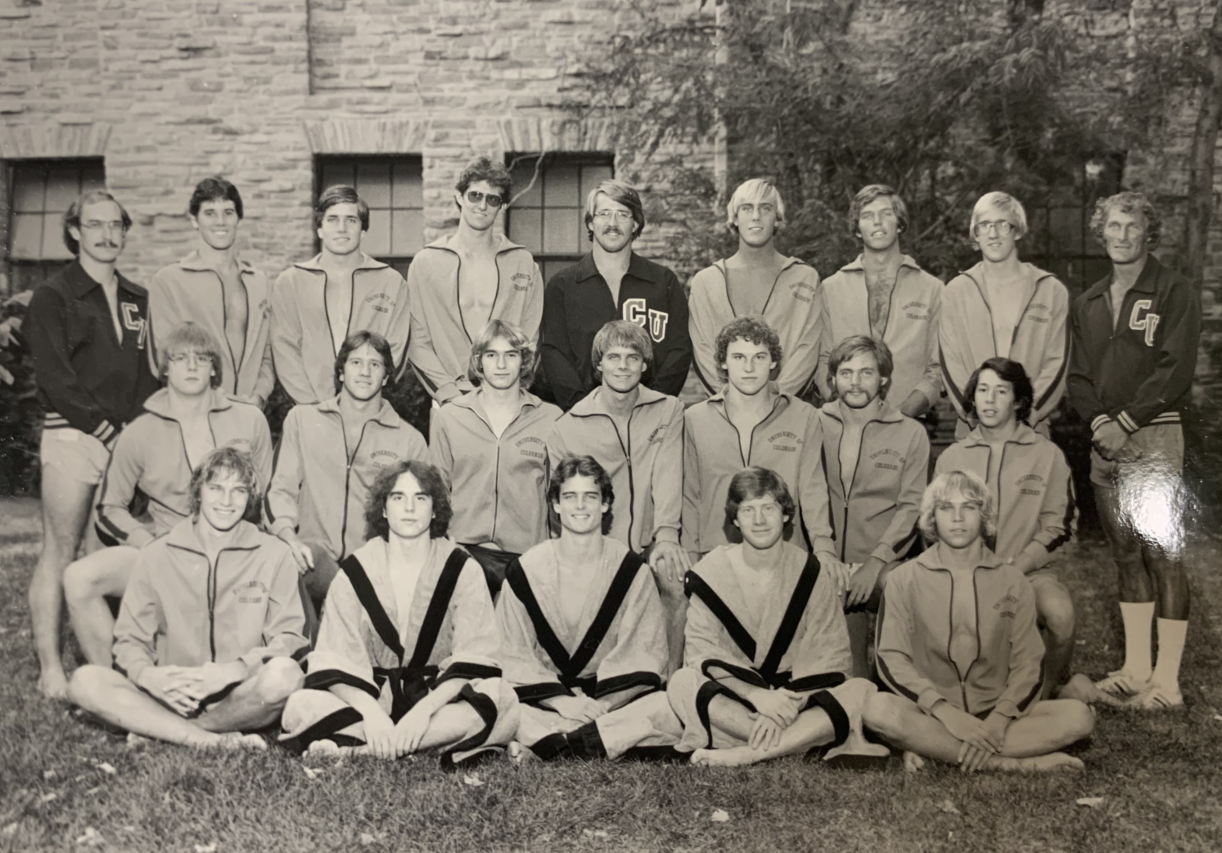
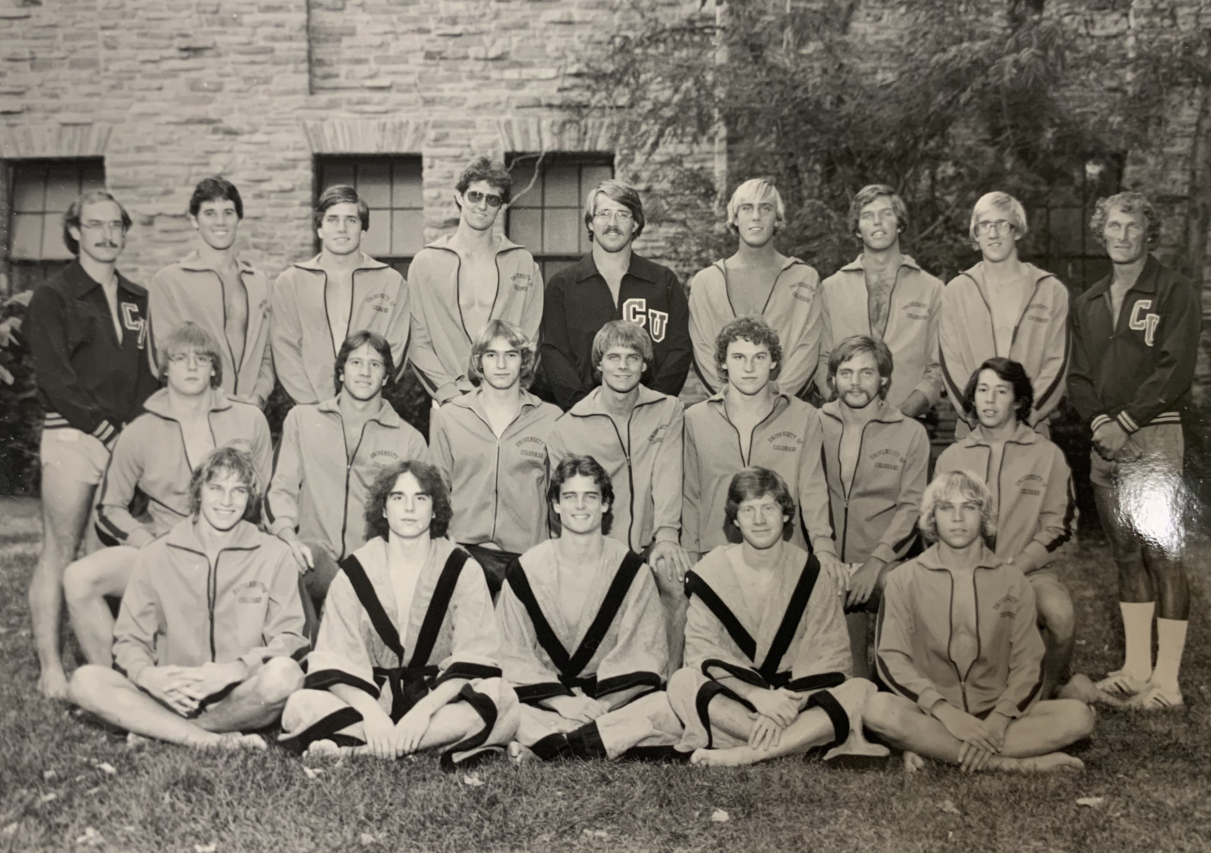
photo updates

diff --git a/pages/1968.html b/pages/1968.html
@@ -8,30 +8,37 @@
         <link rel="stylesheet" href="../assets/css/normalize.css">
         <link rel="stylesheet" href="../assets/css/main.css">
         <link href="./assets/css/tabs-style.css" rel="stylesheet">
-
+        <script src="https://cdn.jsdelivr.net/npm/table-sort-js/table-sort.js"></script>
+        <link rel="stylesheet" href="../assets/css/themes/default/default.css" type="text/css" media="screen" />
+        <link rel="stylesheet" href="..//assets/css/themes/nivo-slider.css" type="text/css" media="screen" />
         <script src="../assets/css/images/jquery-1.10.2.js.download"></script>
         <script src="../assets/css/images/jquery-ui-1.10.4.custom.js.download"></script>
-            
+        <script src="http://ajax.googleapis.com/ajax/libs/jquery/1.9.1/jquery.min.js"></script>
+        <script type="text/javascript" src="../assets/js/jquery.nivo.slider.js"></script>
         <!-- Favicons -->
         <link rel="icon" type="image/png" href="../assets/css/favicon.ico" sizes="16x16">
 
-        
         <script>
-            function showTable(tableIdToShow) {
-                hideAllTables();
-                
-                let tableElement = document.getElementById(tableIdToShow);
-              
-                tableElement.classList.add('show');
+          function showTable(tableIdToShow) {
+            hideAllTables();
+            
+            let tableElement = document.getElementById(tableIdToShow);
+          
+            tableElement.classList.add('show');
+          }
+          
+          function hideAllTables() {
+            let allTableElements = document.querySelectorAll('.table');
+          
+            for (tableElement of allTableElements) {
+              tableElement.classList.remove('show')
             }
-              
-            function hideAllTables() {
-                let allTableElements = document.querySelectorAll('.table');
-              
-                for (tableElement of allTableElements) {
-                  tableElement.classList.remove('show')
-                }
-            }
+          }
+        </script>
+        <script type="text/javascript">
+          $(window).load(function() {
+          $('#slider').nivoSlider();
+          });
         </script>
 
     </head> 
@@ -84,7 +91,13 @@
         <input class="button2" type="button" onclick="showTable('table2')" value="Women's Swimming">
     </div>
     <div id="table1" class="show table">
-    <img src="../assets/css/images/teamphoto1968.png" alt="Full Team Photo 1967-68" class="center"><br>
+    
+    <div class="slider-wrapper theme-default">
+      <div id="slider" class="nivoSlider"> 
+        <img src="../assets/css/images/teamphoto1968.png" alt="Full Team Photo"/> 
+        <img src="../assets/css/images/teamphoto1968f.png" alt="Freshman Team Photo"/> 
+      </div>
+    </div> 
     <h1>Roster</h1>
     <h3>Coaching Staff</h3>
     <br>

diff --git a/pages/1958.html b/pages/1958.html
@@ -5,15 +5,18 @@
         <title>1957-1958 Archive</title>
         <meta name="viewport" content="width=device-width, initial-scale=1">
         <meta name="author" content="Nathan Shaver, Jennifer Cozzette, Simon Alexander, Connor McAllister, Melissa Guba">
-        <meta property="og:title" content="1956-1957 Archive" />
-        <!-- <meta property="og:image" content="https://github.com/nathanshaver01/cuswimdivearchive/blob/main/assets/css/images/teamphoto1957.png?raw=true" /> -->
+        <meta property="og:title" content="1957-1958 Archive" />
+        <meta property="og:image" content="https://github.com/nathanshaver01/cuswimdivearchive/blob/main/assets/css/images/thumbnails/1958.png?raw=true" />
         <link rel="stylesheet" href="../assets/css/normalize.css">
         <link rel="stylesheet" href="../assets/css/main.css">
         <link href="./assets/css/tabs-style.css" rel="stylesheet">
-
+        <script src="https://cdn.jsdelivr.net/npm/table-sort-js/table-sort.js"></script>
+        <link rel="stylesheet" href="../assets/css/themes/default/default.css" type="text/css" media="screen" />
+        <link rel="stylesheet" href="..//assets/css/themes/nivo-slider.css" type="text/css" media="screen" />
         <script src="../assets/css/images/jquery-1.10.2.js.download"></script>
         <script src="../assets/css/images/jquery-ui-1.10.4.custom.js.download"></script>
-            
+        <script src="http://ajax.googleapis.com/ajax/libs/jquery/1.9.1/jquery.min.js"></script>
+        <script type="text/javascript" src="../assets/js/jquery.nivo.slider.js"></script>
         <!-- Favicons -->
         <link rel="icon" type="image/png" href="../assets/css/favicon.ico" sizes="16x16">
         <script>
@@ -33,6 +36,12 @@
             }
           }
         </script>
+        <script type="text/javascript">
+          $(window).load(function() {
+          $('#slider').nivoSlider();
+          });
+        </script>
+
 
     </head> 
     <body>
@@ -78,9 +87,13 @@
       <a id = 'backnext' href="./1957" class="next">&laquo; 1957</a><br>
       <a id = 'backnext' href="../" class="next">&uArr; Archive Directory</a>
       <a id = 'backnext' href="./1959" class="next">1959 &raquo;</a>
-    </div><br><br>
-    <img src="../assets/css/images/teamphoto1958.png" alt="Full Team Photo 1957-58" class="center"><br>
-    
+    </div><br><br>   
+    <div class="slider-wrapper theme-default">
+      <div id="slider" class="nivoSlider"> 
+        <img src="../assets/css/images/teamphoto1958.png" alt="Full Team Photo"/> 
+        <img src="../assets/css/images/teamphoto1958f.png" alt="Freshman Team Photo"/> 
+      </div>
+    </div> 
     <h1>Roster</h1>
     <h3>Coaching Staff</h3><br>
     <div id="images">

diff --git a/pages/1980.html b/pages/1980.html
@@ -10,12 +10,21 @@
         <link rel="stylesheet" href="../assets/css/normalize.css">
         <link rel="stylesheet" href="../assets/css/main.css">
         <link href="./assets/css/tabs-style.css" rel="stylesheet">
-
+        <script src="https://cdn.jsdelivr.net/npm/table-sort-js/table-sort.js"></script>
+        <link rel="stylesheet" href="../assets/css/themes/default/default.css" type="text/css" media="screen" />
+        <link rel="stylesheet" href="..//assets/css/themes/nivo-slider.css" type="text/css" media="screen" />
         <script src="../assets/css/images/jquery-1.10.2.js.download"></script>
         <script src="../assets/css/images/jquery-ui-1.10.4.custom.js.download"></script>
-            
+        <script src="http://ajax.googleapis.com/ajax/libs/jquery/1.9.1/jquery.min.js"></script>
+        <script type="text/javascript" src="../assets/js/jquery.nivo.slider.js"></script>
         <!-- Favicons -->
         <link rel="icon" type="image/png" href="../assets/css/favicon.ico" sizes="16x16">
+
+        <script type="text/javascript">
+          $(window).load(function() {
+          $('#slider').nivoSlider();
+          });
+        </script>
 
         <script>
             function showTable(tableIdToShow) {
@@ -85,10 +94,14 @@
         <input class="button2" type="button" onclick="showTable('table1')" value="Men's Swimming"><br>
         <input class="button2" type="button" onclick="showTable('table2')" value="Women's Swimming">
     </div>
+    <div class="slider-wrapper theme-default">
+      <div id="slider" class="nivoSlider"> 
+        <img src="../assets/css/images/teamphoto1980.png" alt="Full Team Photo 1979-80"/>         
+        <img src="../assets/css/images/teamphoto1980w.png" alt="Women Team Photo 1979-80"/> 
+        <img src="../assets/css/images/teamphoto1980m.png" alt="Men Team Photo 1979-80"/> 
+      </div>
+    </div> 
     <div id="table1" class="show table">
-    <img src="../assets/css/images/teamphoto1980.png" alt="Full Team Photo 1979-80" class="center"><br>
-    <img src="../assets/css/images/teamphoto1980m.png" alt="Men Team Photo 1979-80" class="center"><br>
-    
     <h1>Roster</h1>
     <h3>Coaching Staff</h3><br>
     <div id="images">
@@ -595,8 +608,6 @@
     </div><br><br><br>
     </div>
     <div id="table2" class="table">
-    <img src="../assets/css/images/teamphoto1980.png" alt="Full Team Photo 1979-80" class="center"><br><br>
-    <img src="../assets/css/images/teamphoto1980w.png" alt="Women Team Photo 1979-80" class="center"><br>
     <h1>Roster</h1>
     <h3>Coaching Staff</h3><br>
     <div id="images">

diff --git a/pages/2022.html b/pages/2022.html
@@ -11,14 +11,20 @@
         <link rel="stylesheet" href="../assets/css/main.css">
         <link href="./assets/css/tabs-style.css" rel="stylesheet">
         <script src="https://cdn.jsdelivr.net/npm/table-sort-js/table-sort.js"></script>
-
+        <link rel="stylesheet" href="../assets/css/themes/default/default.css" type="text/css" media="screen" />
+        <link rel="stylesheet" href="..//assets/css/themes/nivo-slider.css" type="text/css" media="screen" />
         <script src="../assets/css/images/jquery-1.10.2.js.download"></script>
         <script src="../assets/css/images/jquery-ui-1.10.4.custom.js.download"></script>
-            
+        <script src="http://ajax.googleapis.com/ajax/libs/jquery/1.9.1/jquery.min.js"></script>
+        <script type="text/javascript" src="../assets/js/jquery.nivo.slider.js"></script>
         <!-- Favicons -->
         <link rel="icon" type="image/png" href="../assets/css/favicon.ico" sizes="16x16">
 
-        
+        <script type="text/javascript">
+          $(window).load(function() {
+          $('#slider').nivoSlider();
+          });
+        </script>
 
     </head> 
 
@@ -63,14 +69,16 @@
     <br>
     <h1>2021 - 2022 Club Swimming &amp; Diving Archive </h1>
     <div class="center1">
-      <div class="center1">
-        <a id = 'backnext' href="./2021" class="next">&laquo; 2021</a><br>
-        <a id = 'backnext' href="../" class="next">&uArr; Archive Directory</a>
-        <a id = 'backnext' href="./2023" class="next">2023 &raquo;</a>
-      </div><br><br>
+      <a id = 'backnext' href="./2021" class="next">&laquo; 2021</a><br>
+      <a id = 'backnext' href="../" class="next">&uArr; Archive Directory</a>
+      <a id = 'backnext' href="./2023" class="next">2023 &raquo;</a>
     </div><br><br>
-    <img src="../assets/css/images/teamphoto2022.png" alt="Full Team Photo 2021-22" class="center"><br>
-
+    <div class="slider-wrapper theme-default">
+      <div id="slider" class="nivoSlider"> 
+        <img src="../assets/css/images/teamphoto2022.png" alt="Full Team Photo 2021-22"/> 
+        <img src="../assets/css/images/teamphoto2022n.jpg" alt="Nationals Team Photo 2021-22"/> 
+      </div>
+    </div> 
     <h1>Roster</h1>
     <h3>Coaching Staff</h3><br>
     <div id="images">

diff --git a/pages/1966.html b/pages/1966.html
@@ -10,14 +10,16 @@
         <link rel="stylesheet" href="../assets/css/normalize.css">
         <link rel="stylesheet" href="../assets/css/main.css">
         <link href="./assets/css/tabs-style.css" rel="stylesheet">
-
+        <script src="https://cdn.jsdelivr.net/npm/table-sort-js/table-sort.js"></script>
+        <link rel="stylesheet" href="../assets/css/themes/default/default.css" type="text/css" media="screen" />
+        <link rel="stylesheet" href="..//assets/css/themes/nivo-slider.css" type="text/css" media="screen" />
         <script src="../assets/css/images/jquery-1.10.2.js.download"></script>
         <script src="../assets/css/images/jquery-ui-1.10.4.custom.js.download"></script>
-            
+        <script src="http://ajax.googleapis.com/ajax/libs/jquery/1.9.1/jquery.min.js"></script>
+        <script type="text/javascript" src="../assets/js/jquery.nivo.slider.js"></script>
         <!-- Favicons -->
         <link rel="icon" type="image/png" href="../assets/css/favicon.ico" sizes="16x16">
 
-        
         <script>
           function showTable(tableIdToShow) {
             hideAllTables();
@@ -35,7 +37,11 @@
             }
           }
         </script>
-
+        <script type="text/javascript">
+          $(window).load(function() {
+          $('#slider').nivoSlider();
+          });
+        </script>
     </head> 
 
     <body>
@@ -82,8 +88,12 @@
       <a id = 'backnext' href="../" class="next">&uArr; Archive Directory</a>
       <a id = 'backnext' href="./1967" class="next">1967 &raquo;</a>
     </div><br><br>
-    <img src="../assets/css/images/teamphoto1966.png" alt="Full Team Photo 1965-66" class="center"><br><!--3904-->
-    
+    <div class="slider-wrapper theme-default">
+      <div id="slider" class="nivoSlider"> 
+        <img src="../assets/css/images/teamphoto1966.png" alt="Full Team Photo"/> 
+        <img src="../assets/css/images/teamphoto1966f.png" alt="Freshman Team Photo"/> 
+      </div>
+    </div> 
     <h1>Roster</h1>
     <h3>Coaching Staff</h3>
     <br>

diff --git a/pages/1964.html b/pages/1964.html
@@ -8,10 +8,13 @@
         <link rel="stylesheet" href="../assets/css/normalize.css">
         <link rel="stylesheet" href="../assets/css/main.css">
         <link href="./assets/css/tabs-style.css" rel="stylesheet">
-
+        <script src="https://cdn.jsdelivr.net/npm/table-sort-js/table-sort.js"></script>
+        <link rel="stylesheet" href="../assets/css/themes/default/default.css" type="text/css" media="screen" />
+        <link rel="stylesheet" href="..//assets/css/themes/nivo-slider.css" type="text/css" media="screen" />
         <script src="../assets/css/images/jquery-1.10.2.js.download"></script>
         <script src="../assets/css/images/jquery-ui-1.10.4.custom.js.download"></script>
-            
+        <script src="http://ajax.googleapis.com/ajax/libs/jquery/1.9.1/jquery.min.js"></script>
+        <script type="text/javascript" src="../assets/js/jquery.nivo.slider.js"></script>
         <!-- Favicons -->
         <link rel="icon" type="image/png" href="../assets/css/favicon.ico" sizes="16x16">
 
@@ -31,6 +34,11 @@
               tableElement.classList.remove('show')
             }
           }
+        </script>
+        <script type="text/javascript">
+          $(window).load(function() {
+          $('#slider').nivoSlider();
+          });
         </script>
 
     </head> 
@@ -79,8 +87,12 @@
       <a id = 'backnext' href="../" class="next">&uArr; Archive Directory</a>
       <a id = 'backnext' href="./1965" class="next">1965 &raquo;</a>
     </div><br><br>
-    <img src="../assets/css/images/teamphoto1964.png" alt="Full Team Photo 1963-64" class="center"><br>
-    
+    <div class="slider-wrapper theme-default">
+      <div id="slider" class="nivoSlider"> 
+        <img src="../assets/css/images/teamphoto1964.png" alt="Full Team Photo"/> 
+        <img src="../assets/css/images/teamphoto1964f.png" alt="Freshman Team Photo"/> 
+      </div>
+    </div>
     <h1>Roster</h1>
     <h3>Coaching Staff</h3><br>
     <div id="images">

diff --git a/pages/2014.html b/pages/2014.html
@@ -74,8 +74,13 @@
       <a id = 'backnext' href="../" class="next">&uArr; Archive Directory</a>
       <a id = 'backnext' href="./2015" class="next">2015 &raquo;</a>
     </div><br><br>
-    <img src="../assets/css/images/teamphoto2014.jpg" alt="Full Team Photo 2013-14" class="center"><br>
-    
+    <div class="slider-wrapper theme-default">
+      <div id="slider" class="nivoSlider"> 
+        <img src="../assets/css/images/teamphoto2014.jpg" alt="Full Team Photo 2013-14"/> 
+        <img src="../assets/css/images/teamphoto2014nm.png" alt="Nationals Team Photo Men 2013-14"/>
+        <img src="../assets/css/images/teamphoto2014nw.png" alt="Nationals Team Photo Women 2013-14"/>
+      </div>
+    </div>
     <h1>Roster</h1>
     <h3>Coaching Staff</h3><br>
     <div id="images">

diff --git a/pages/2016.html b/pages/2016.html
@@ -74,8 +74,12 @@
       <a id = 'backnext' href="../" class="next">&uArr; Archive Directory</a>
       <a id = 'backnext' href="./2017" class="next">2017 &raquo;</a>
     </div><br><br>
-    <img src="../assets/css/images/teamphoto2016.PNG" alt="Full Team Photo 2015-16" class="center"><br>
-    
+    <div class="slider-wrapper theme-default">
+      <div id="slider" class="nivoSlider"> 
+        <img src="../assets/css/images/teamphoto2016.PNG" alt="Full Team Photo 2015-16"/> 
+        <img src="../assets/css/images/teamphoto2016n.PNG" alt="Nationals Team Photo 2015-16"/> 
+      </div>
+    </div> 
     <h1>Roster</h1>
     <h3>Coaching Staff</h3><br>
     <div id="images">

diff --git a/pages/2023.html b/pages/2023.html
@@ -74,8 +74,12 @@
       <a id = 'backnext' href="../" class="next">&uArr; Archive Directory</a>
       <a id = 'backnext' href="./2024" class="next">2024 &raquo;</a>
     </div><br><br>
-    <img src="../assets/css/images/teamphoto2023.jpg" alt="Full Team Photo 2022-23" class="center"><br>
-
+    <div class="slider-wrapper theme-default">
+      <div id="slider" class="nivoSlider"> 
+        <img src="../assets/css/images/teamphoto2023.jpg" alt="Full Team Photo 2022-23"/> 
+        <img src="../assets/css/images/teamphoto2023u.png" alt="Utah Team Photo 2022-23"/> 
+      </div>
+    </div> 
     <h1>Roster</h1>
     <h3>Coaching Staff</h3><br>
     <div id="images">

diff --git a/pages/1925.html b/pages/1925.html
@@ -91,7 +91,7 @@
             <td>Bitterman</td>
         </tr>
         <tr>
-            <td>Beal</td>
+            <td>Beall</td>
             <td>Ned Campbell</td>
             <td>John Dawson</td>
             <td>Leonard De Lue</td>
